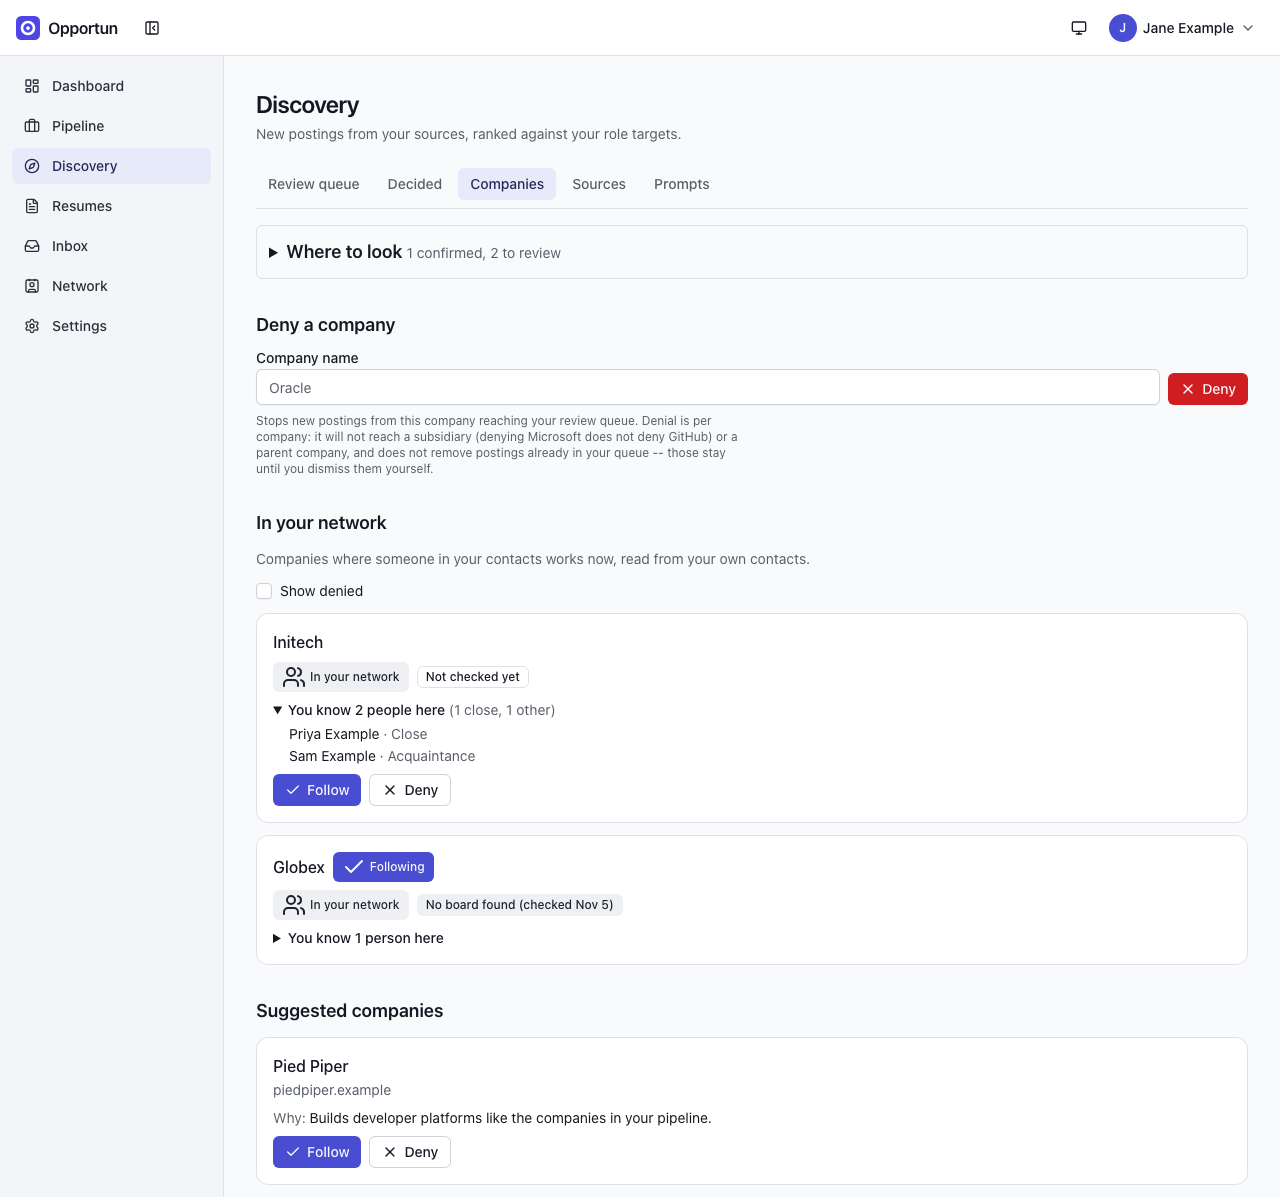
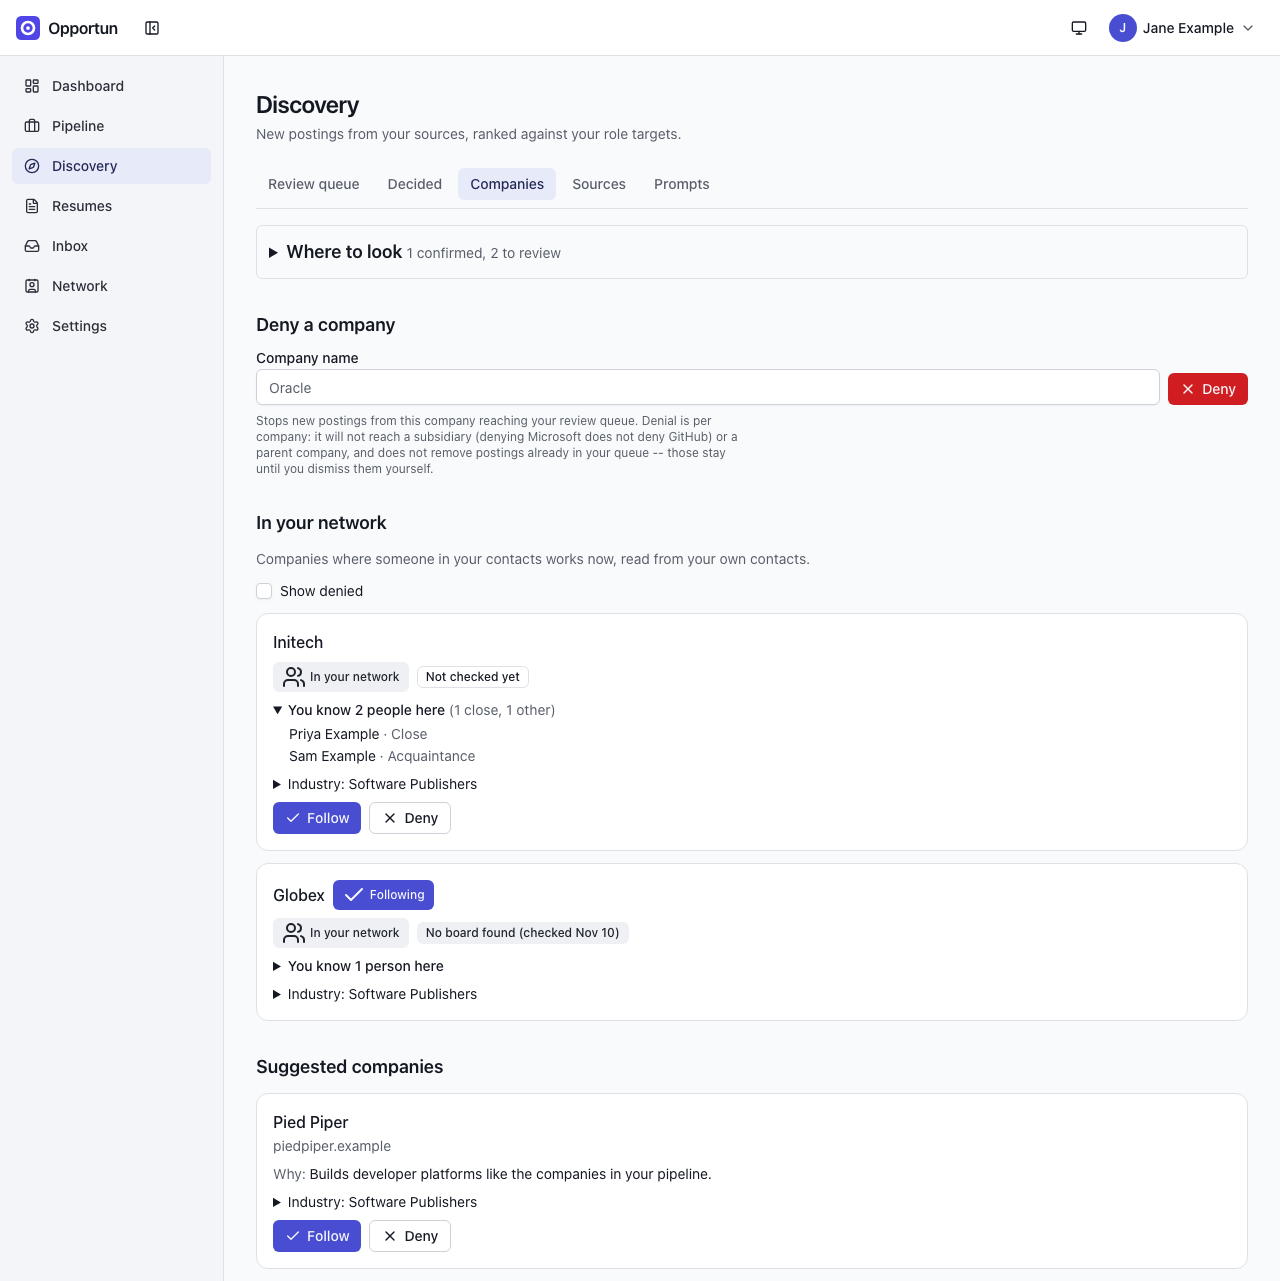
Guide: the Companies image shows industry tags, and Discovery says what a failing company does
Refs #298

diff --git a/docs/guide/discovery.md b/docs/guide/discovery.md
@@ -113,17 +113,21 @@ model, and it counts against your [discovery budget](settings.md#models-and-budg
 rest wait for a later night. Each call sends the company's name, its domain, and up to 10 job titles
 from postings already stored from its board. So the names of companies in your network do go to your
 provider; nothing about your contacts does, and no board is fetched for this. A tag is created once
-and kept. Open **Industry** on a row to correct it, and your choice stands. A company the model could
-not place says so, and is not asked about again, though you can still set one.
+and kept. Until then a row says **Industry: not tagged yet**. Open **Industry** on a row to correct
+it, and your choice stands (the row then says "set by you"). A company the model could not place
+says **Industry: could not be placed** and is not asked about again, though you can still set one.
+A company the provider refuses, or answers unusably, when asked on its own is asked again the next
+night, after the other companies, so one name that always fails does not hold the rest up. With no
+AI key, or a key the provider rejected, the run does not start.
 
 **Suggested companies** comes from the `company.suggest` task, which once a week (Tuesdays)
 proposes companies worth following, based on your role targets and past decisions, each with its
 reason. **Follow** one and Opportun looks for its job board; **Deny** it and it is not suggested
 again.
 
-![The Companies tab. At the top, Where to look is collapsed and shows 1 confirmed, 2 to review. In your network lists Initech, with Priya Example and Sam Example named under You know 2 people here and Follow and Deny buttons, and Globex, marked Following with no board found. Suggested companies lists Pied Piper with its reason and Follow and Deny buttons](images/discovery-companies.png)
+![The Companies tab. At the top, Where to look is collapsed and shows 1 confirmed, 2 to review. In your network lists Initech, with Priya Example and Sam Example named under You know 2 people here and Follow and Deny buttons, and Globex, marked Following with no board found. Suggested companies lists Pied Piper with its reason and Follow and Deny buttons. Each company shows an Industry line, here Software Publishers](images/discovery-companies.png)
 
-_The Companies tab, with invented contacts. Following a company starts job board detection._
+_The Companies tab, with invented contacts, after the nightly industry tags ran. Following a company starts job board detection._
 
 A followed company shows the board it found (for example "Greenhouse: piedpiper") and a
 **Detect now** button; boards are re-checked weekly. The detected board becomes a source that
